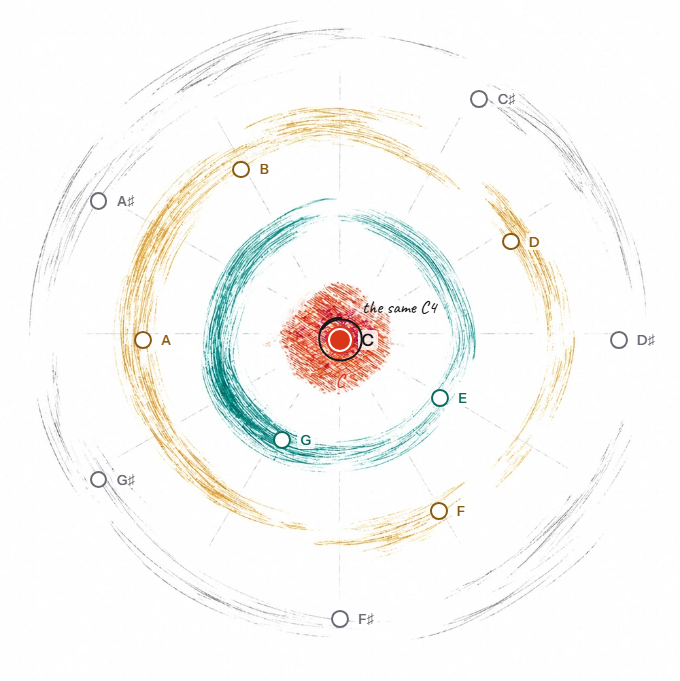
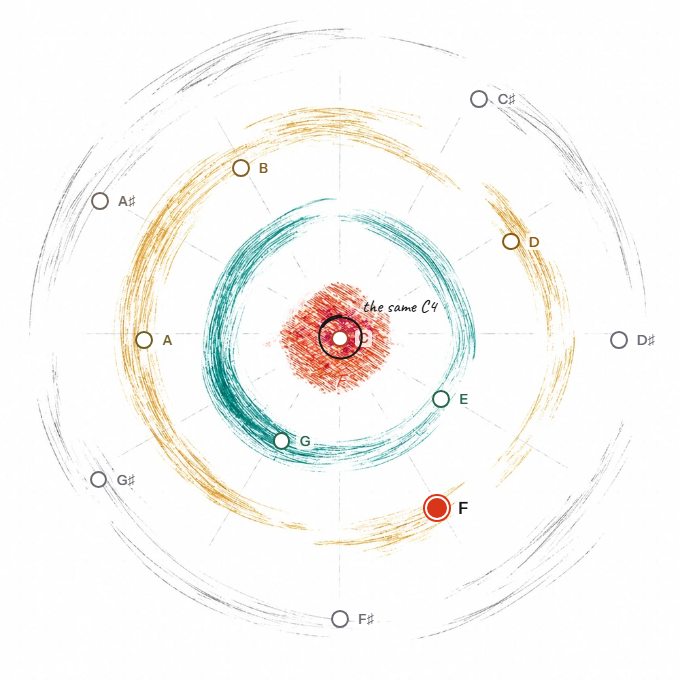
capture Tonal F-major state accurately

diff --git a/docs/visual-reference/reviews/batch-1/BATCH-1-CREATIVE-REVIEW.md b/docs/visual-reference/reviews/batch-1/BATCH-1-CREATIVE-REVIEW.md
@@ -72,7 +72,7 @@ With no context, the artwork and pitch markers recede, leaving twelve identities
 
 ![Tonal Hierarchy on mobile, with F major selected and the field beginning below the controls.](images/tonal-mobile-state.png)
 
-Full field captures: [desktop](images/tonal-art-desktop.png), [mobile](images/tonal-art-mobile.png). Context-free opening: [desktop](images/tonal-desktop-opening.png), [mobile](images/tonal-mobile-opening.png).
+Full field captures in the selected F-major context: [desktop](images/tonal-art-desktop.png), [mobile](images/tonal-art-mobile.png). Context-free opening: [desktop](images/tonal-desktop-opening.png), [mobile](images/tonal-mobile-opening.png).
 
 ## Review decision
 
